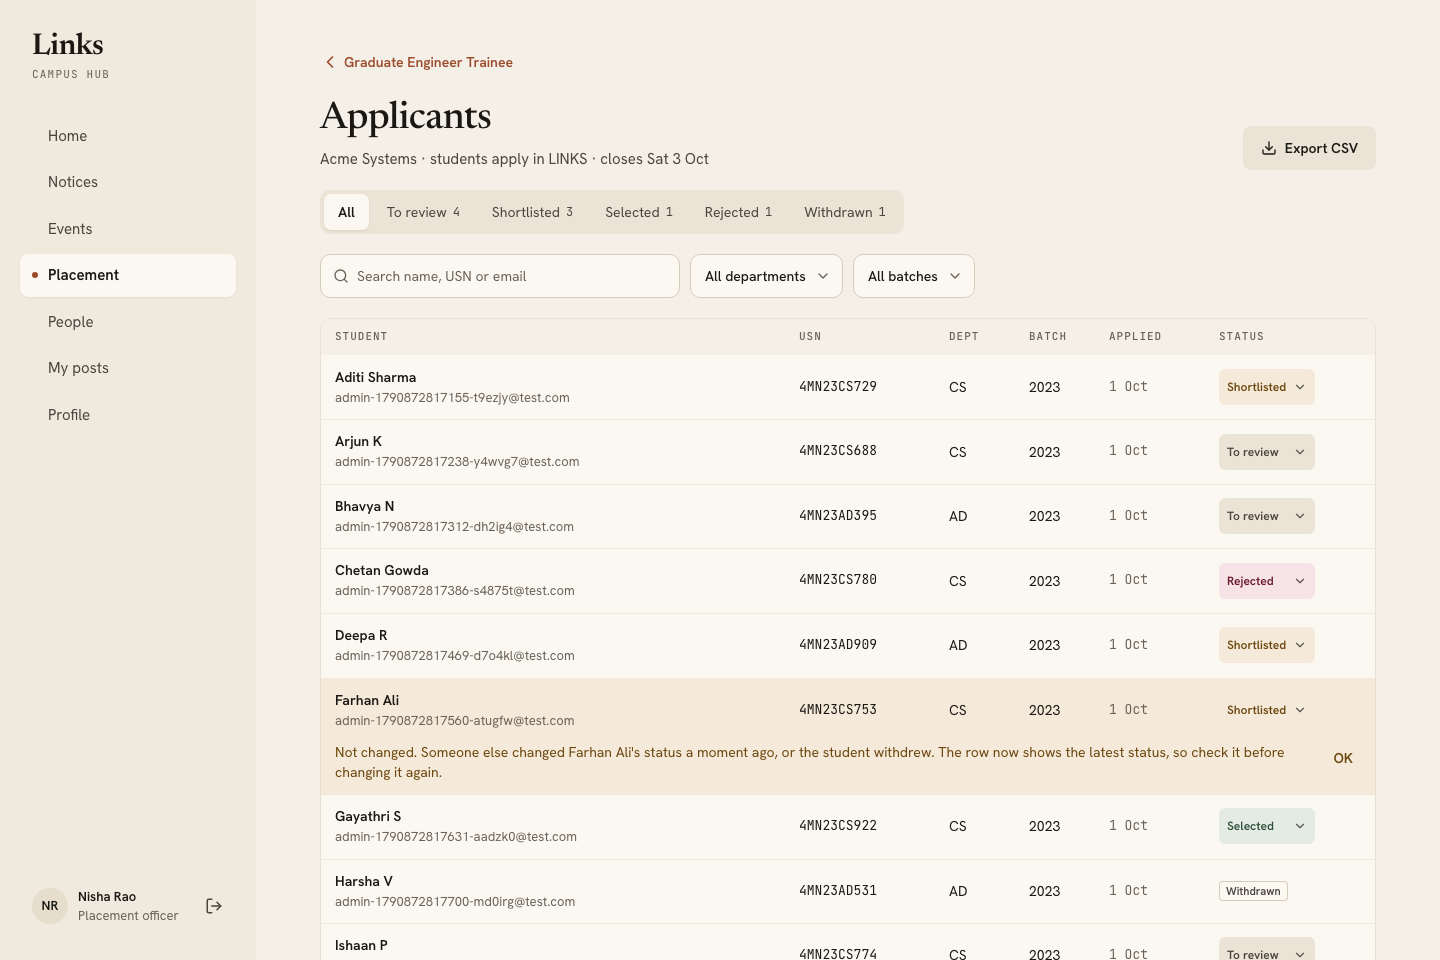
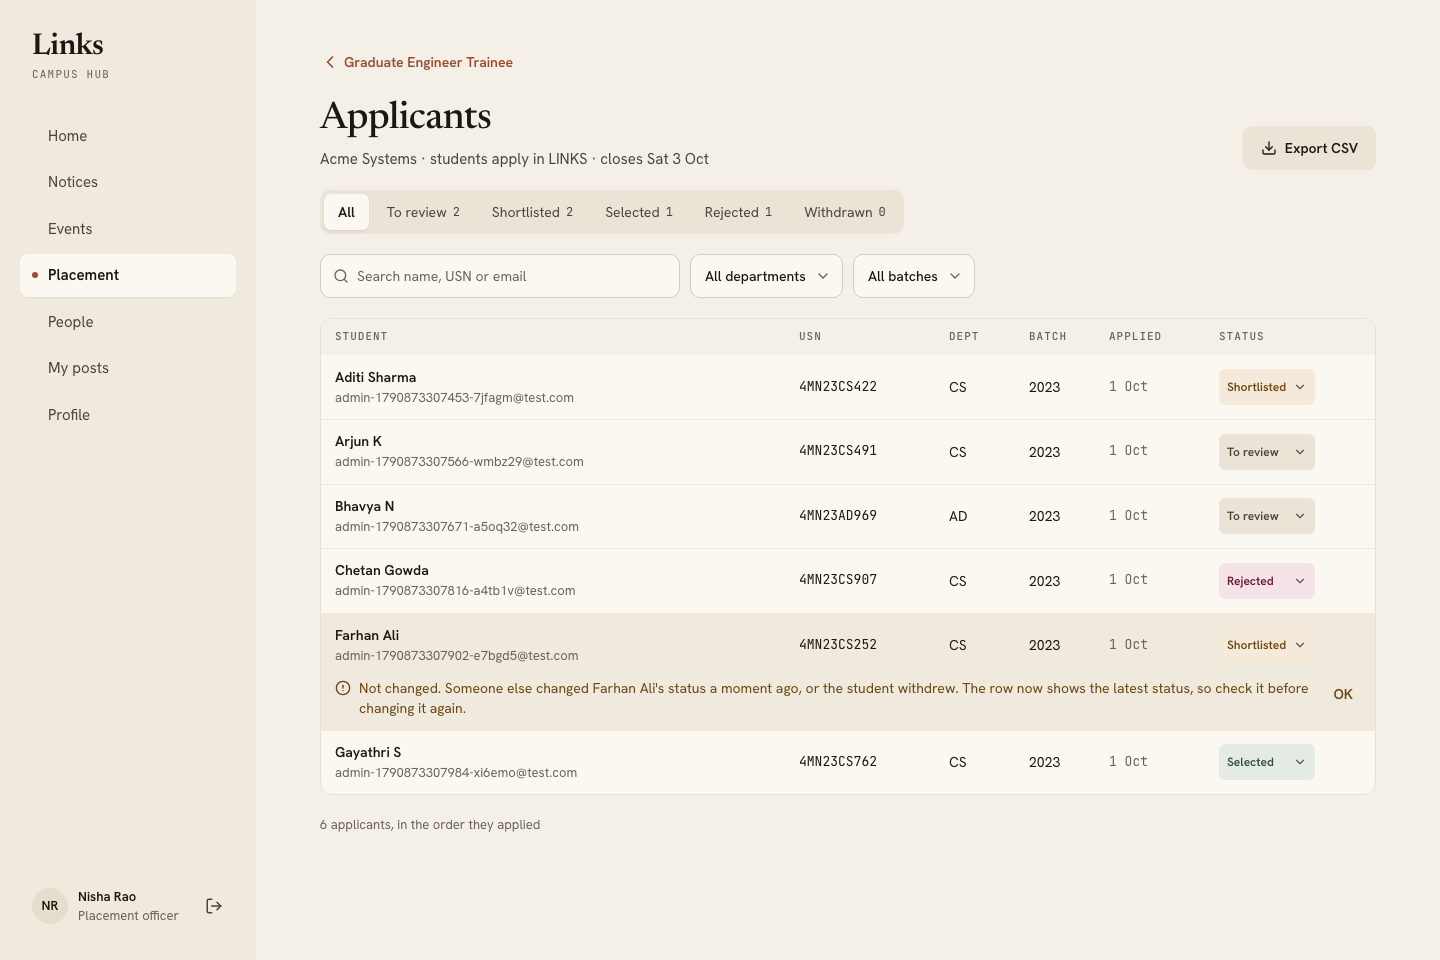
fix(client): keep the status readable on a row whose change was refused
The flagged row was highlighted in the same amber as a Shortlisted tag,
so that tag disappeared into it. The row now uses the neutral rail
colour, and the note carries its own icon.

diff --git a/client/src/features/placement/pages/Applicants.tsx b/client/src/features/placement/pages/Applicants.tsx
@@ -1,4 +1,4 @@
-import { ChevronDown, ChevronLeft, Download, Search, X } from 'lucide-react'
+import { ChevronDown, ChevronLeft, CircleAlert, Download, Search, X } from 'lucide-react'
 import { useEffect, useRef, useState } from 'react'
 import { Link, useParams, useSearchParams } from 'react-router-dom'
 import { cn } from '@/lib/utils'
@@ -337,11 +337,15 @@ function StatusControl({ applicant, busy, onMove, phone }: { applicant: Applican
   )
 }
 
+// Problem is the note under a row whose change was refused. The row turns
+// the neutral rail colour, not a status colour, so its status tag stays
+// readable whatever it is.
 function Problem({ text, onDismiss }: { text: string; onDismiss: () => void }) {
   return (
-    <div role="alert" className="flex items-start gap-3 text-sm text-warning-ink">
+    <div role="alert" className="flex items-start gap-2 text-sm text-warning-ink">
+      <CircleAlert aria-hidden="true" className="mt-0.5 size-4 shrink-0" />
       <span className="flex-1">{text}</span>
-      <button type="button" onClick={onDismiss} className="min-h-8 shrink-0 rounded-md px-2 font-semibold hover:bg-[#efdcc0]">
+      <button type="button" onClick={onDismiss} className="min-h-8 shrink-0 rounded-md px-2 font-semibold hover:bg-well">
         OK
       </button>
     </div>
@@ -366,7 +370,7 @@ function Table({ rows, problem, busy, onMove, onDismiss }: RowsProps) {
           {rows.map((row, i) => {
             const flagged = problem?.id === row.id
             return [
-              <tr key={row.id} className={cn(i > 0 && 'shadow-[inset_0_1px_0_#efe9de]', flagged && 'bg-warning-soft')}>
+              <tr key={row.id} className={cn(i > 0 && 'shadow-[inset_0_1px_0_#efe9de]', flagged && 'bg-rail')}>
                 <td className="px-3.5 py-3">
                   <span className="flex flex-col gap-0.5">
                     <Link to={`/people/${row.student.username}`} className="font-semibold text-ink hover:text-rust">
@@ -384,7 +388,7 @@ function Table({ rows, problem, busy, onMove, onDismiss }: RowsProps) {
                 </td>
               </tr>,
               flagged ? (
-                <tr key={`${row.id}-problem`} className="bg-warning-soft">
+                <tr key={`${row.id}-problem`} className="bg-rail">
                   <td colSpan={6} className="px-3.5 pb-3">
                     <Problem text={problem.text} onDismiss={onDismiss} />
                   </td>
@@ -402,7 +406,7 @@ function PhoneList({ rows, problem, busy, onMove, onDismiss }: RowsProps) {
   return (
     <ul className="flex flex-col overflow-hidden rounded-xl border border-line bg-surface lg:hidden [&>li+li]:shadow-[0_-1px_0_#efe9de]">
       {rows.map((row) => (
-        <li key={row.id} className={cn('flex flex-col gap-2 px-3.5 py-3', problem?.id === row.id && 'bg-warning-soft')}>
+        <li key={row.id} className={cn('flex flex-col gap-2 px-3.5 py-3', problem?.id === row.id && 'bg-rail')}>
           <div className="flex items-center gap-2.5">
             <span className="flex min-w-0 flex-1 flex-col gap-0.5">
               <span className="text-[15px] font-semibold">{row.student.full_name}</span>
